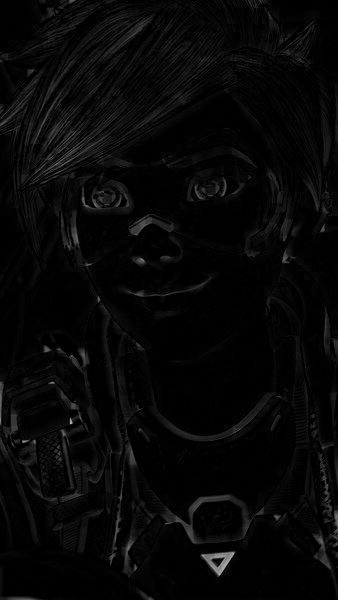
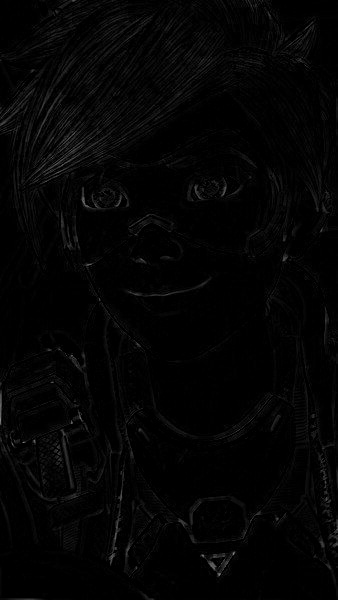
Dilatacion & Erosion
Funcionando los dos

diff --git a/P3-Practica-Final/gui.py b/P3-Practica-Final/gui.py
@@ -139,6 +139,20 @@ def blackH(event):
         n = simpledialog.askinteger(title="Kernel", prompt="Establece el tamaño del kernel")
         morf.blackHat(filename[1], n)
 
+def Erosion(event):
+    if(ruta == None):
+        messagebox.showerror("Error", "Selecciona una imagen primero")
+    else:
+        n = simpledialog.askinteger(title="Kernel", prompt="Establece el tamaño del kernel")
+        morf.Erosion(filename[1], n)
+
+def Dilatacion(event):
+    if(ruta == None):
+        messagebox.showerror("Error", "Selecciona una imagen primero")
+    else:
+        n = simpledialog.askinteger(title="Kernel", prompt="Establece el tamaño del kernel")
+        morf.Dilatacion(filename[1], n)
+
 window = tk.Tk()
 window.title("Práctica Final")
 width = window.winfo_screenwidth()
@@ -209,10 +223,10 @@ otsuBt = tk.Button(text="UMBRALIZACIÓN DE OTSU", width=30, height=1, font=("Cou
 otsuBt.bind("<Button-1>", )
 otsuBt.place(x=450, y = 500)
 erosionBt = tk.Button(text="EROSIÓN", width=30, height=1, font=("Courier", 16), anchor="center", foreground="darkslateblue", background="black")
-erosionBt.bind("<Button-1>", )
+erosionBt.bind("<Button-1>",Erosion )
 erosionBt.place(x=860, y = 100)
 dilatacionBt = tk.Button(text="DILATACIÓN", width=30, height=1, font=("Courier", 16), anchor="center", foreground="darksalmon", background="black")
-dilatacionBt.bind("<Button-1>", )
+dilatacionBt.bind("<Button-1>",Dilatacion)
 dilatacionBt.place(x=860, y = 150)
 openingBt = tk.Button(text="OPENING", width=30, height=1, font=("Courier", 16), anchor="center", foreground="firebrick", background="black")
 openingBt.bind("<Button-1>", )

diff --git a/P3-Practica-Final/morfologia.py b/P3-Practica-Final/morfologia.py
@@ -19,3 +19,15 @@ class Morfologia:
         kernel = np.ones((n, n), np.uint8)
         imgRes = cv.morphologyEx(img, cv.MORPH_BLACKHAT, kernel)
         self.mostrarImagen("Black hat", img, imgRes, "blackH", ruta)
+
+    def Erosion(self, ruta, n):
+        img = cv.imread("./img/" + ruta, cv.IMREAD_GRAYSCALE)
+        kernel = np.ones((n, n), np.uint8)
+        imgRes = cv.erode(img,kernel,iterations = 1)
+        self.mostrarImagen("Erosion", img, imgRes, "Eros", ruta)
+
+    def Dilatacion(self, ruta, n):
+        img = cv.imread("./img/" + ruta, cv.IMREAD_GRAYSCALE)
+        kernel = np.ones((n, n), np.uint8)
+        imgRes = cv.dilate(img,kernel,iterations = 1)
+        self.mostrarImagen("Dilatacion", img, imgRes, "Dilat", ruta)
